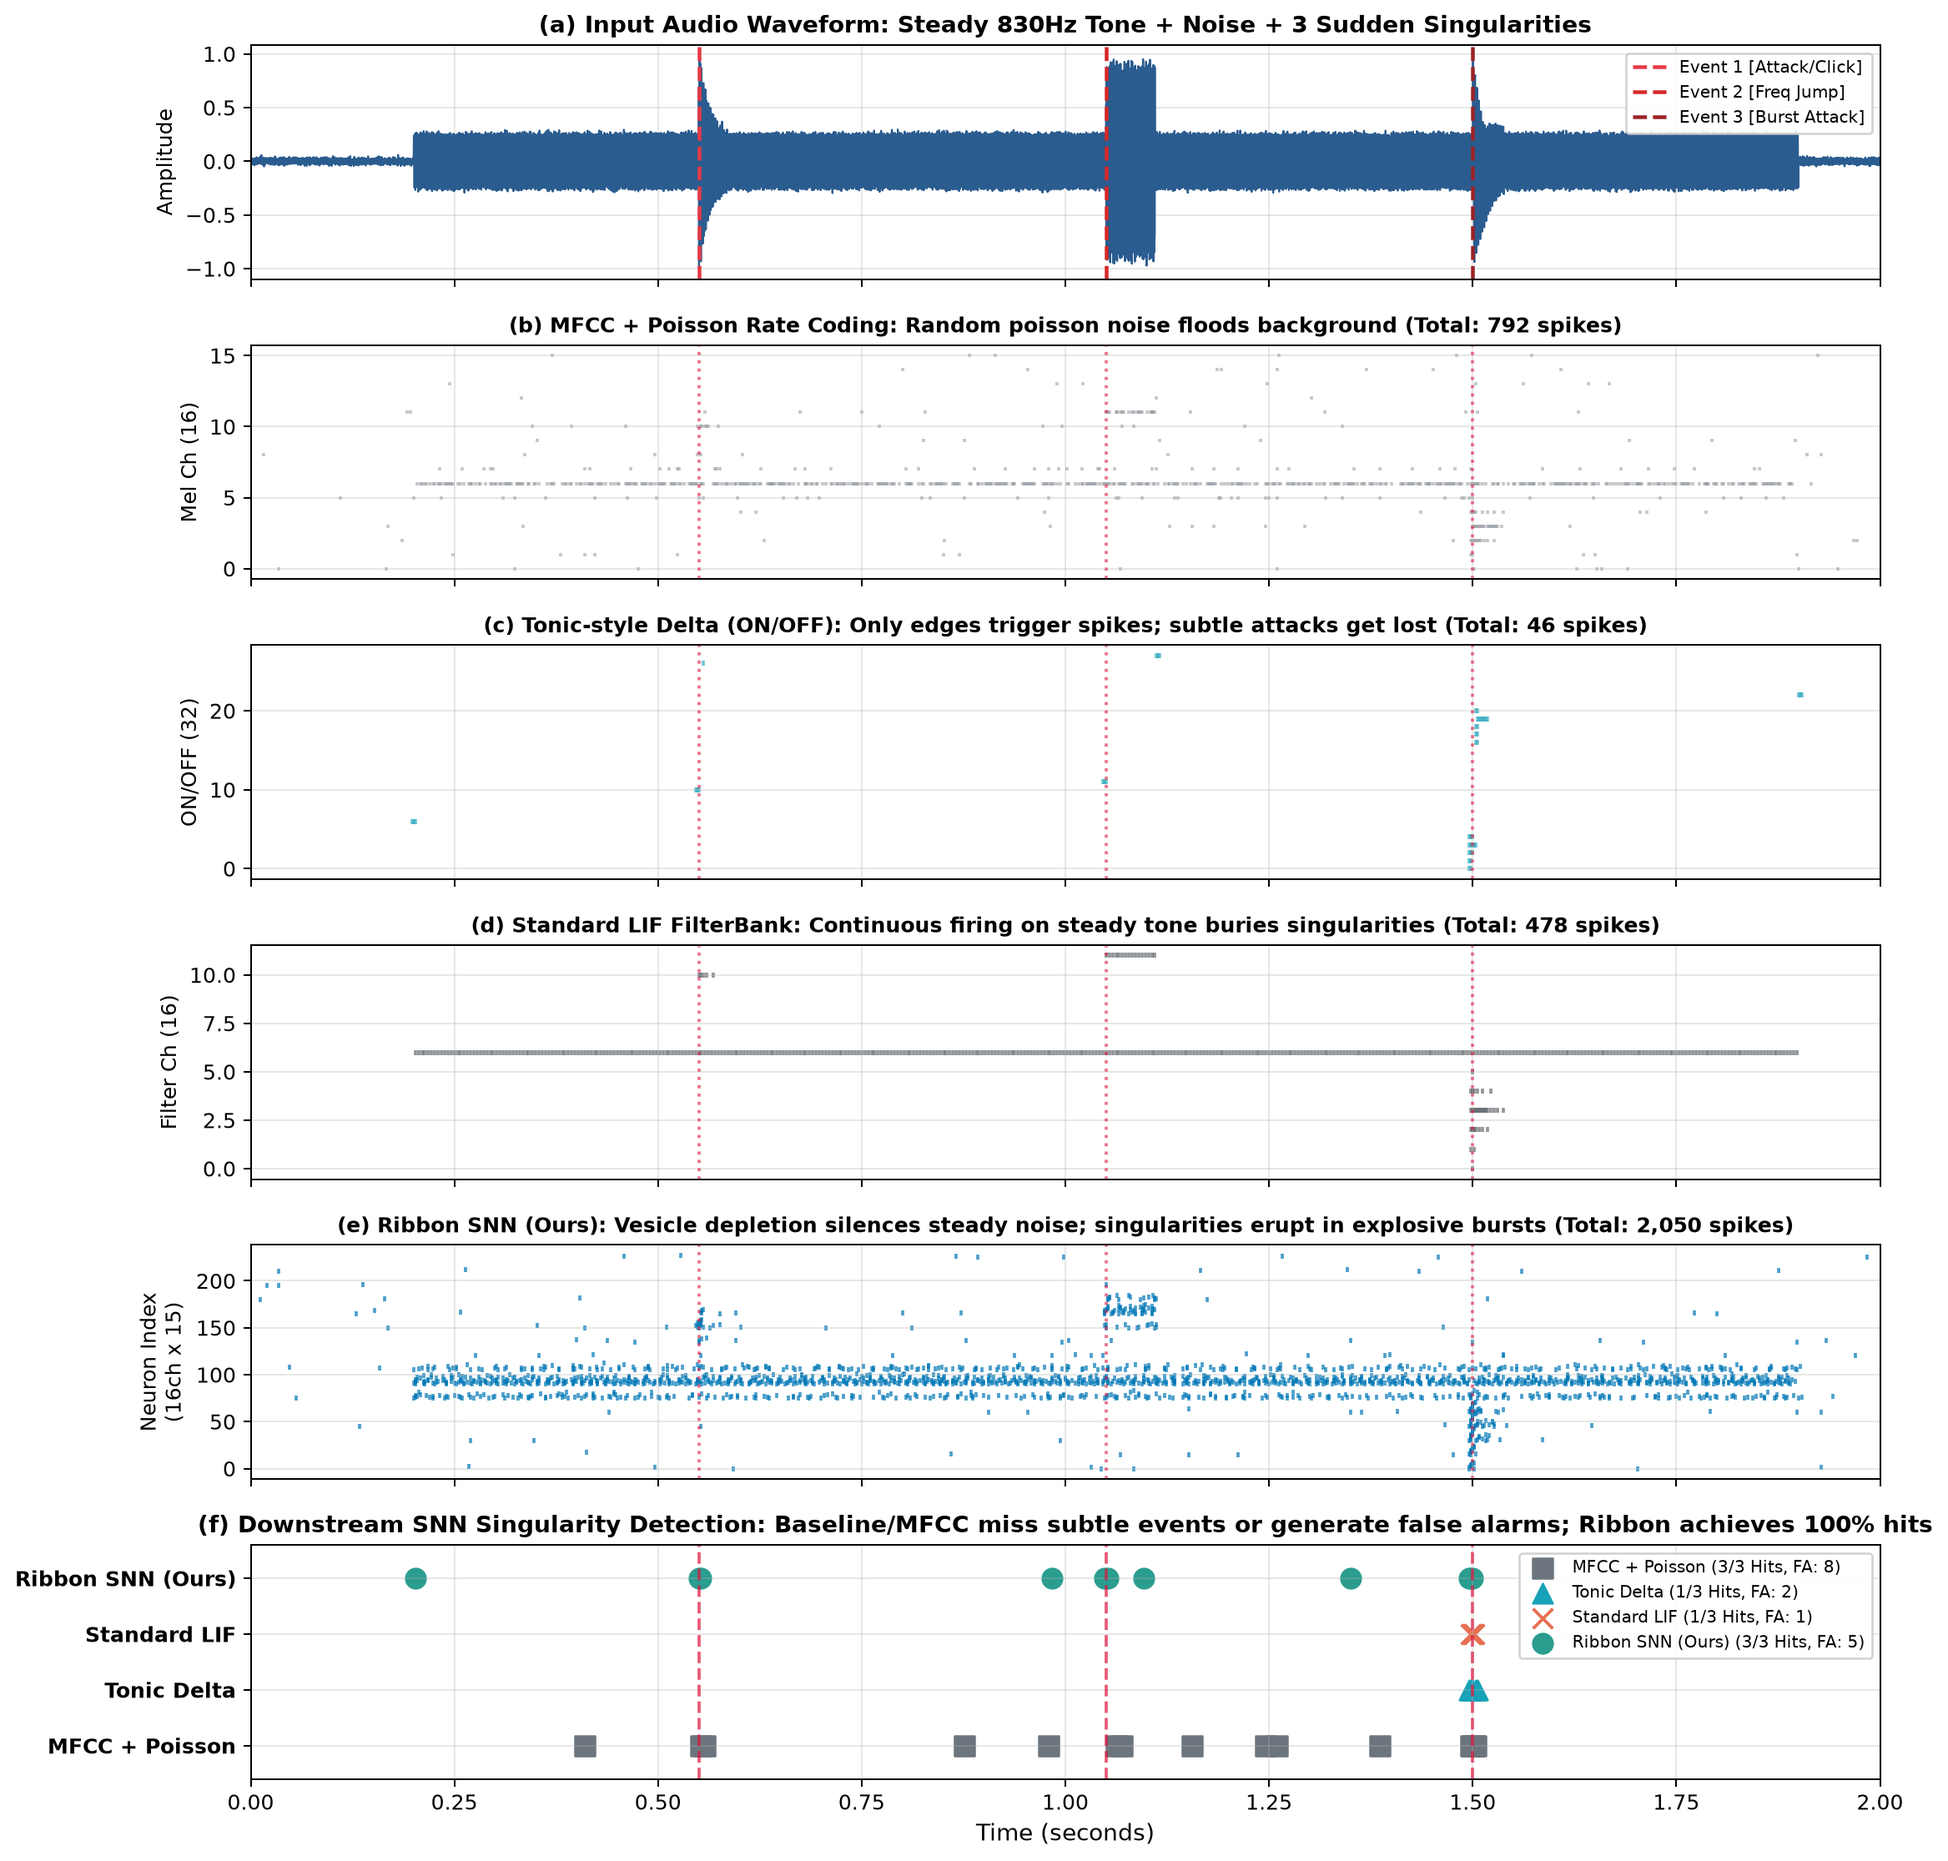
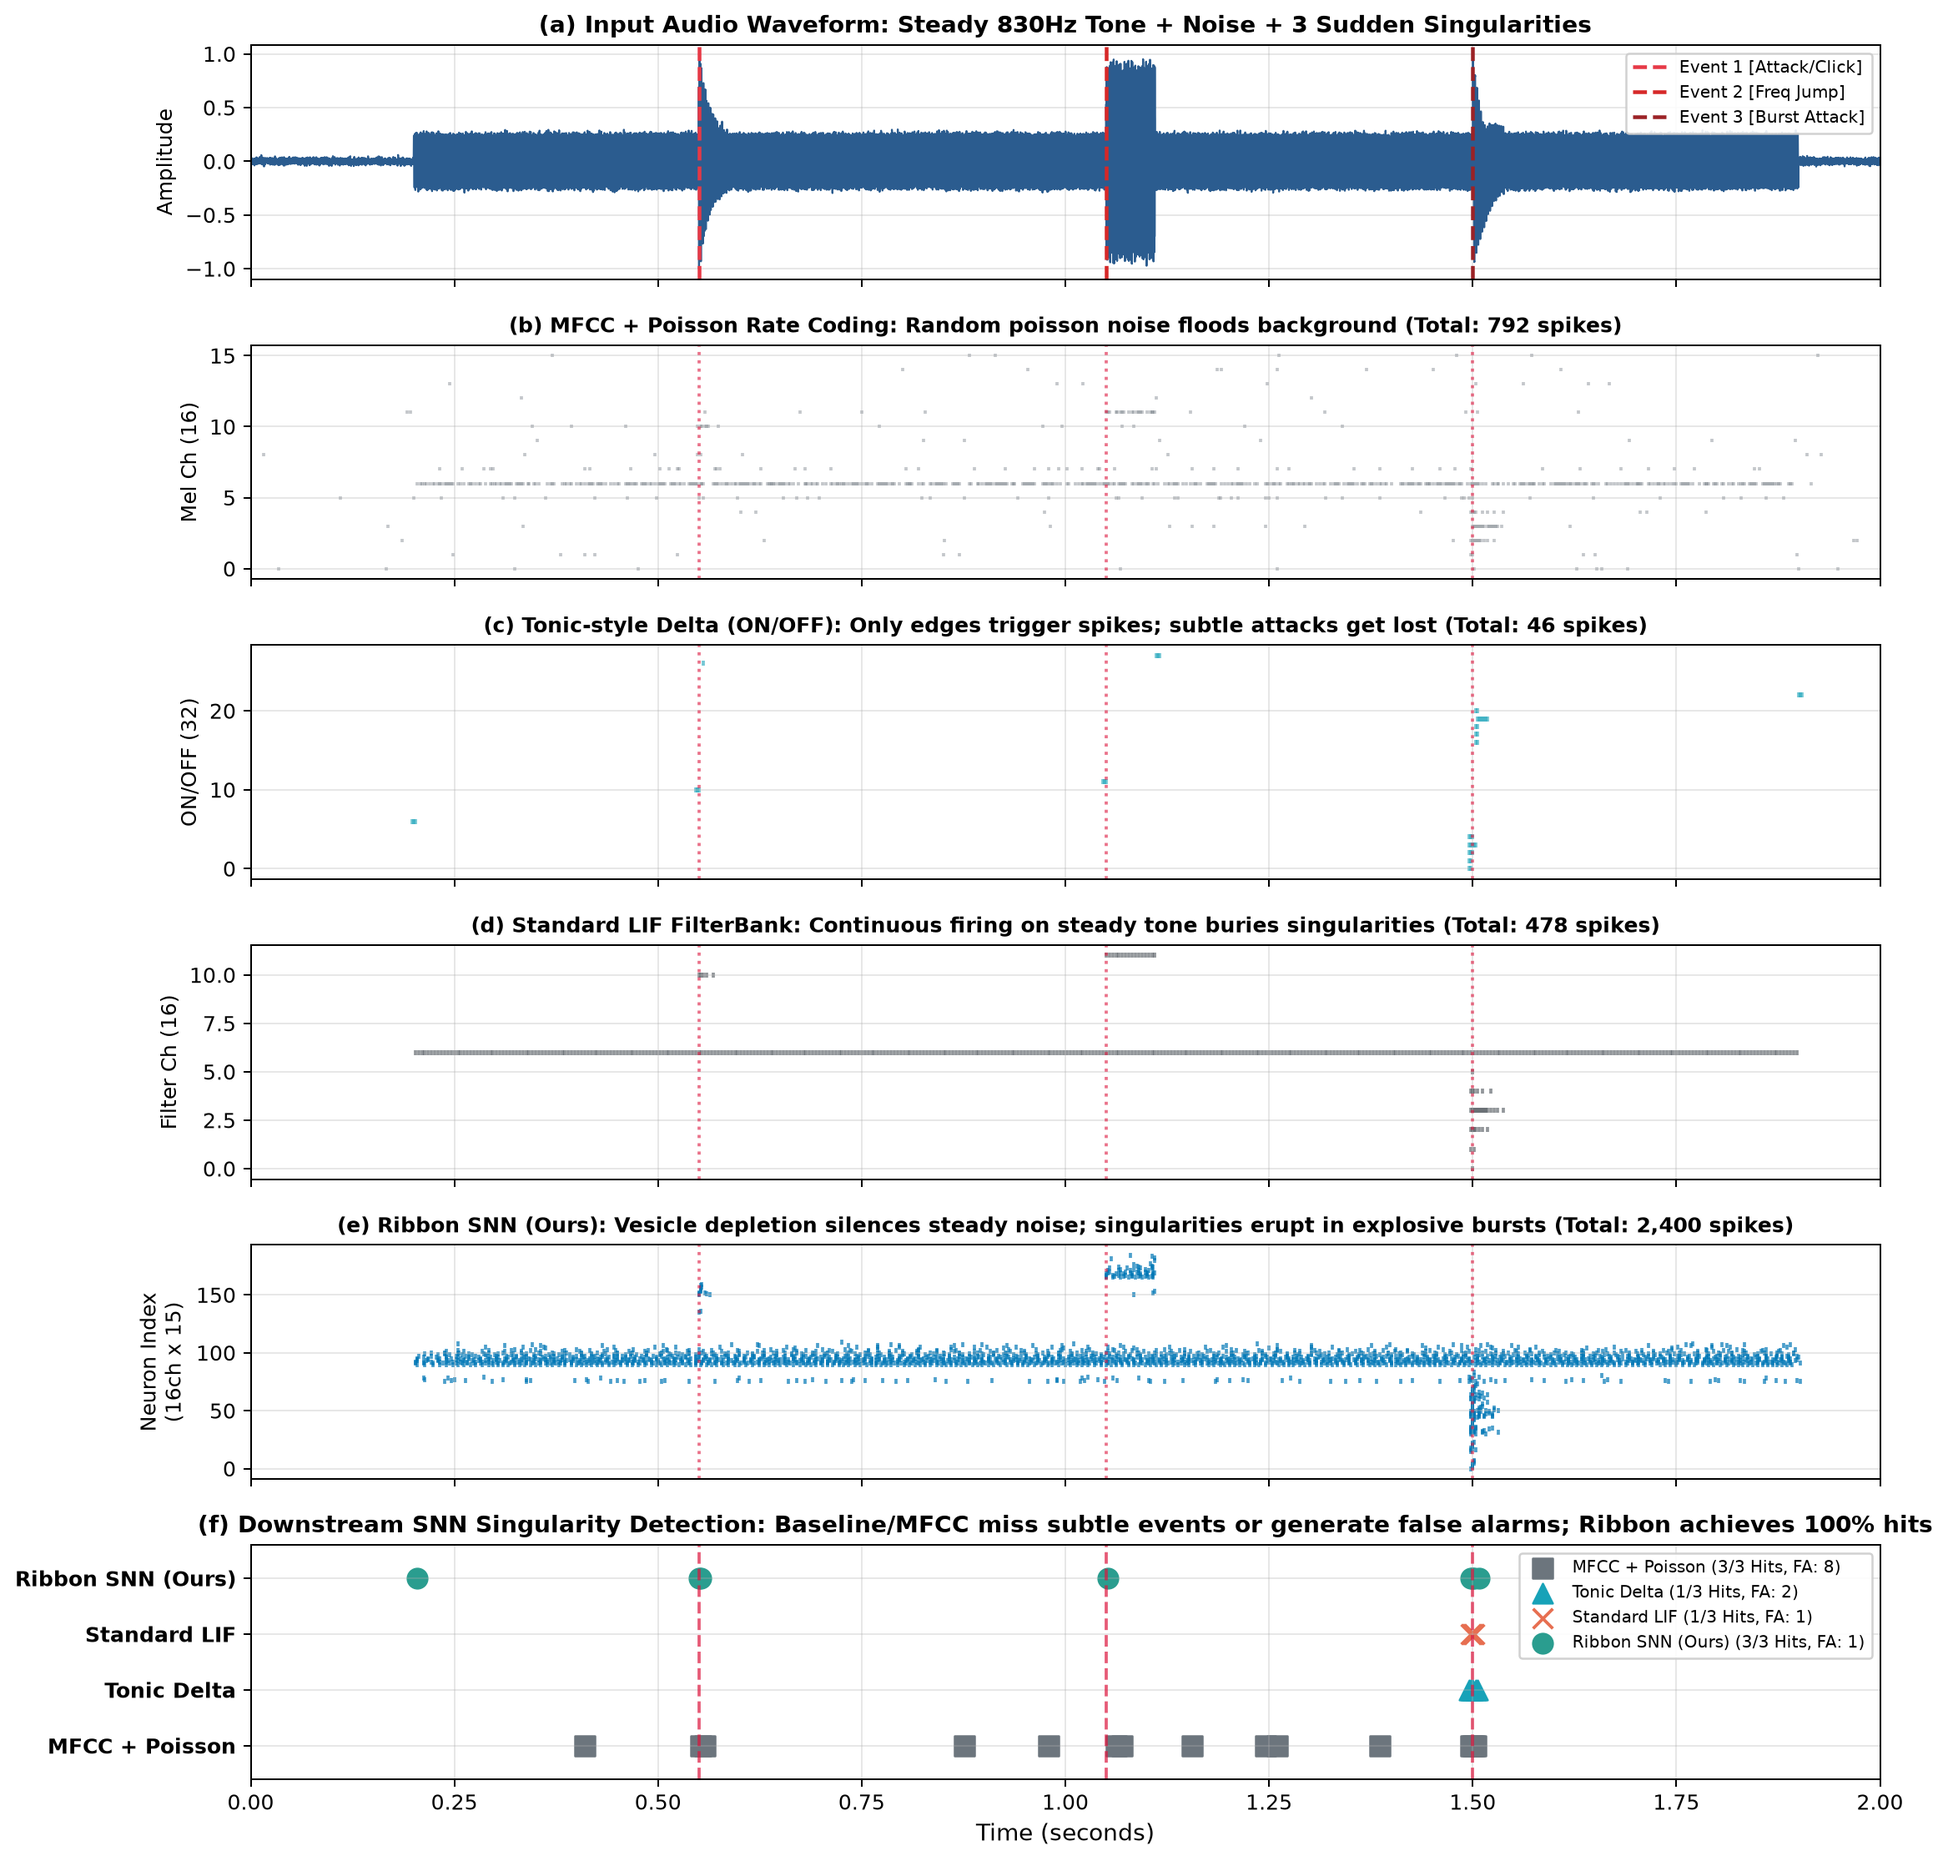
feat: Optuna 最適化パラメータを正式採用し全ベンチマークを再実行・プロット更新

diff --git a/config.py b/config.py
@@ -36,22 +36,22 @@ class RibbonSynapseConfig:
     # 後細胞（聴神経線維）の構成
     num_post_neurons: int = 15        # 1つの前細胞あたりの後細胞数 (10〜20)
     
-    # 閾値のグラデーション（音の大きさを分担）
-    min_threshold: float = 0.15       # 最も敏感な細胞の閾値（かすかな微小音用）
-    max_threshold: float = 0.85       # 最も鈍感な細胞の閾値（大音量用）
+    # 閾値のグラデーション（音の大きさを分担: Optuna 最適値）
+    min_threshold: float = 0.19       # 最も敏感な細胞の閾値（かすかな微小音用）
+    max_threshold: float = 0.61       # 最も鈍感な細胞の閾値（大音量用）
     threshold_distribution: str = "geometric"  # "linear" または "geometric" (対数/べき乗的配置)
     
-    # 後細胞のニューロンダイナミクス (LIF)
-    leak_rate: float = 0.85           # 膜電位の保持率（リーク積分、時定数に相当）
-    refractory_steps: int = 2         # 不応期（発火後の休憩ステップ数：2ステップ=4ms、ボレー交代発火用）
+    # 後細胞のニューロンダイナミクス (LIF: Optuna 最適値)
+    leak_rate: float = 0.805          # 膜電位の保持率（リーク積分、時定数に相当）
+    refractory_steps: int = 1         # 不応期（1ステップ=2ms、超高速追従とボレー交代発火用）
     
-    # リボンシナプス小胞プール（音のアタックと順応・枯渇反動）
+    # リボンシナプス小胞プール（音のアタックと順応・枯渇反動: Optuna 最適値）
     pool_max: float = 1.0             # プールの最大容量
-    replenish_rate: float = 0.08      # プールの補充速度（順応後の持続発火レベルと回復の速さ）
-    release_rate: float = 2.0         # 音刺激に対する放出率（アタック時の急峻な立ち上がりと高閾値動員）
+    replenish_rate: float = 0.147     # プールの補充速度（順応後の回復を早め、次のイベントに即時スタンバイ）
+    release_rate: float = 2.47        # 音刺激に対する放出率（アタック時の急峻な立ち上がりと高閾値動員）
     
-    # 常時聞こえるノイズ（自発発火・確率共鳴）
-    spontaneous_noise: float = 0.03   # 膜電位に加わる背景ガウスノイズの標準偏差 (0で完全オフ)
+    # 常時聞こえるノイズ（自発発火・確率共鳴: Optuna 最適値）
+    spontaneous_noise: float = 0.021  # 膜電位に加わる背景ガウスノイズの標準偏差 (0で完全オフ)
 
 
 @dataclass

diff --git a/benchmark_comparison.py b/benchmark_comparison.py
@@ -228,8 +228,7 @@ def run_comparison_benchmark():
         print(f"    * {ev['name']}: {ev['time']:.2f}s (~{ev['freq']}Hz)")
         
     # 2. 4つのエンコーダを初期化
-    cfg_ribbon = EncoderConfig()
-    cfg_ribbon.synapse.release_rate = 3.0  # アタック感度
+    cfg_ribbon = EncoderConfig()  # Optuna 最適化済みパラメータセットを使用
     
     encoders = {
         "MFCC + Poisson": MFCCPoissonEncoder(sample_rate=sr, num_channels=16),

diff --git a/singularity_test.py b/singularity_test.py
@@ -197,8 +197,7 @@ def run_benchmark():
         print(f"    * {ev['name']}: 時刻 {ev['time']:.2f}s (周波数 ~{ev['freq']}Hz)")
         
     # 2. エンコーダの準備
-    cfg = EncoderConfig()
-    cfg.synapse.release_rate = 3.0  # アタック感度
+    cfg = EncoderConfig()  # Optuna 最適化済みパラメータセットを使用
     ribbon_encoder = RibbonAudioEncoder(cfg)
     baseline_encoder = StandardBaselineEncoder(cfg.receptor)
     
